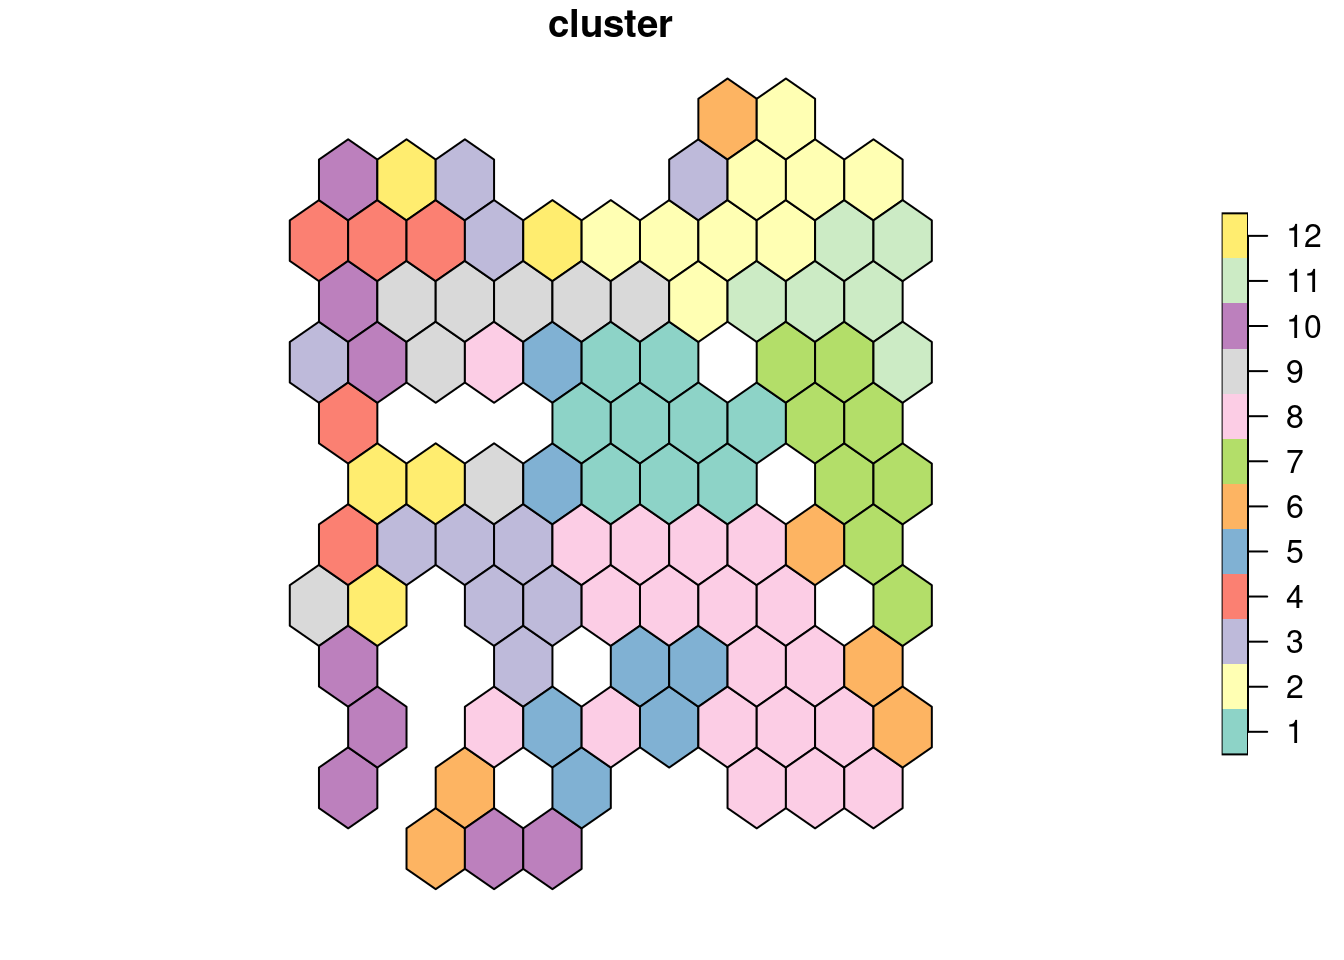
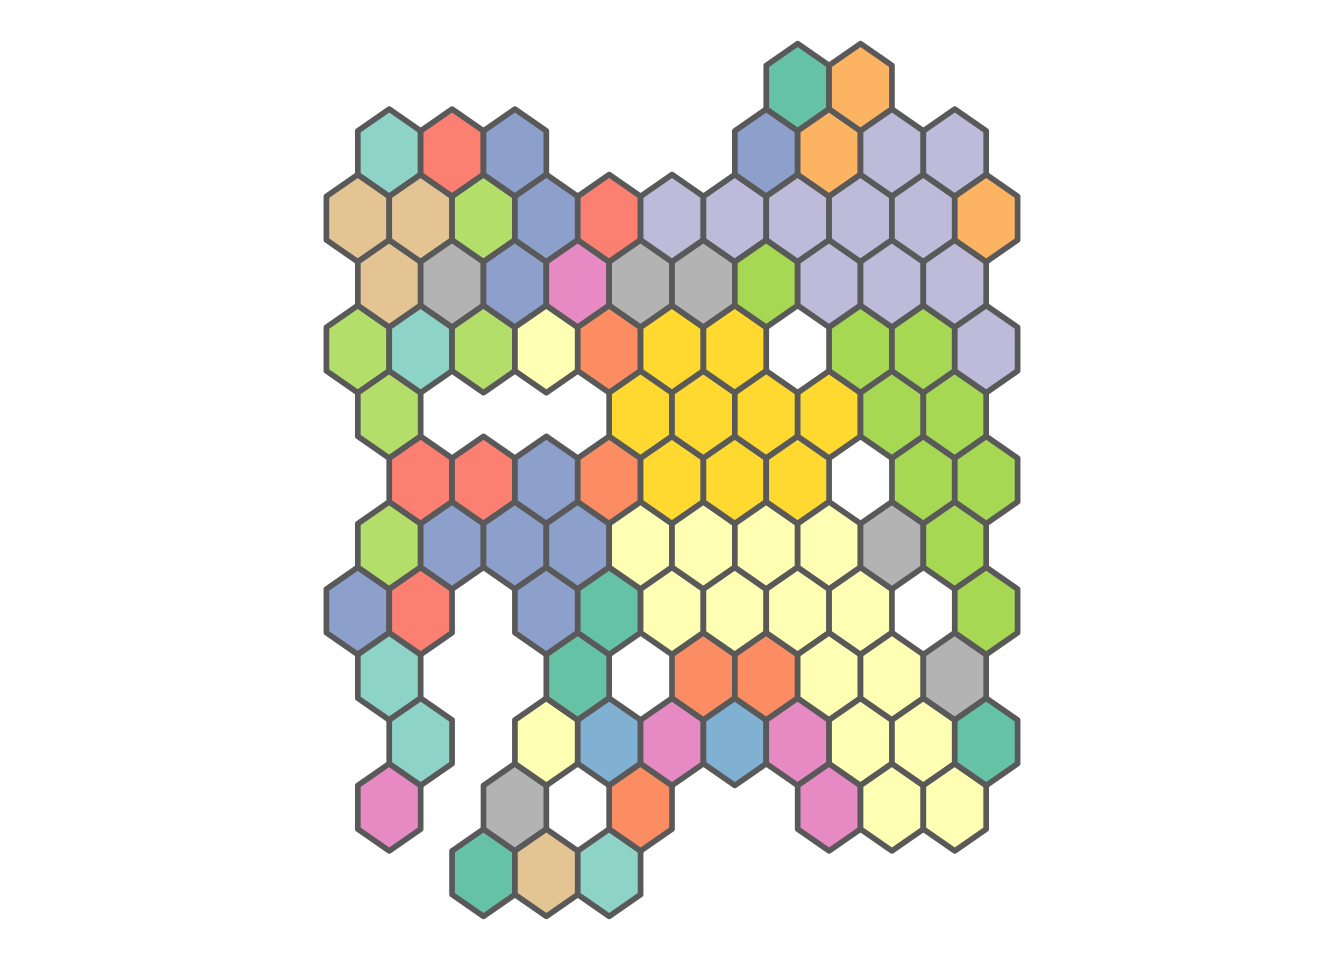
voronoi triangles, arrange ecosystems in gradient

diff --git a/ecocarta.html b/ecocarta.html
@@ -266,7 +266,7 @@ knitr::opts_chunk$set(comment=&quot;&quot;, cache=T, warning = F, message = F, f
 <div id="load-gbif-data" class="section level1">
 <h1>Load GBIF data</h1>
 <pre class="r"><code>#San Jacinto Mountains research-grade iNaturalist observations
-#POLYGON((-117 33.5,-116.5 33.5,-116.5 34,-117 34,-117 33.5))
+box &lt;- st_as_sfc(&quot;POLYGON((-117 33.5,-116.5 33.5,-116.5 34,-117 34,-117 33.5))&quot;) %&gt;% st_set_crs(&quot;WGS84&quot;)
 #GBIF.org (19 September 2024) GBIF Occurrence Download  https://doi.org/10.15468/dl.25fxq8
 dat.all &lt;- read_tsv(&quot;data/0022443-240906103802322.csv.gz&quot;)
 
@@ -277,8 +277,25 @@ dat.common &lt;- dat.all %&gt;%
   mutate(species=factor(species), species_int = as.integer(species)) %&gt;% as.data.frame()
 
 dat.points &lt;- dat.common %&gt;% st_as_sf(coords = c(&quot;decimalLongitude&quot;, &quot;decimalLatitude&quot;), crs = &quot;WGS84&quot;)
-plot(dat.points[&quot;phylum&quot;])</code></pre>
+ggplot(dat.points, aes(color=order)) + geom_sf() + theme_void() + guides(color=&quot;none&quot;) +
+    theme(panel.background = element_rect(fill=&quot;black&quot;))</code></pre>
 <p><img src="images/load_gbif-1.png" width="672" /></p>
+<pre class="r"><code>group_by_cell &lt;- function(points, grid, min_obs=0) {
+  #assign points to cells
+  dat.grid.cells &lt;- st_intersects(grid, points) 
+  grid$n_obs &lt;- lengths(dat.grid.cells) #count points in each cell
+  
+  #drop cells with few observations
+  cells.full &lt;- which(grid$n_obs &gt; min_obs)
+  grid.full &lt;- grid[cells.full,]
+  
+  #tally number of each species in each cell
+  dat.grid &lt;- t(sapply(dat.grid.cells, function(x) table(points$species[x])))
+  rownames(dat.grid) &lt;- grid$grid_id
+  dat.grid.full &lt;- dat.grid[cells.full,]
+  
+  list(data = dat.grid.full, grid = grid.full)
+}</code></pre>
 </div>
 <div id="draw-hexagonal-grid" class="section level1">
 <h1>Draw hexagonal grid</h1>
@@ -287,39 +304,78 @@ hex_dim &lt;- 10 #number of hexagons on each side
 hex.sfc &lt;- dat.points %&gt;% st_make_grid(n=c(hex_dim, hex_dim), square = F)
 hex &lt;- hex.sfc %&gt;% st_sf() %&gt;% mutate(grid_id = 1:length(lengths(hex.sfc)))
 
-#assign points to cells
-dat.hex.cells &lt;- st_intersects(hex, dat.points) 
-hex$n_obs &lt;- lengths(dat.hex.cells) #count points in each cell
-
-#drop cells with few observations
-obs_cutoff &lt;- 10
-cells.full &lt;- which(hex$n_obs&gt;obs_cutoff)
-hex.full &lt;- hex[cells.full,]
-
-plot(hex.full[&quot;n_obs&quot;])</code></pre>
+hex.obj &lt;- group_by_cell(dat.points, hex, min_obs=10)
+dat.hex &lt;- hex.obj$data
+hex.full &lt;- hex.obj$grid
+ggplot(hex.full, aes(fill=n_obs)) + geom_sf(linewidth=2) + 
+  theme_void() + scale_fill_viridis_c(option=&quot;magma&quot;, guide=&quot;none&quot;) + 
+  theme(panel.background = element_rect(fill=&quot;black&quot;))</code></pre>
 <p><img src="images/hex-1.png" width="672" /></p>
-<pre class="r"><code>#tally number of each species in each cell
-dat.hex &lt;- t(sapply(dat.hex.cells, function(x) table(dat.common[x,&quot;species&quot;])))
-rownames(dat.hex) &lt;- hex$grid_id
-dat.hex.full &lt;- dat.hex[cells.full,]</code></pre>
+</div>
+<div id="draw-voronoi-triangles" class="section level1">
+<h1>Draw Voronoi triangles</h1>
+<pre class="r"><code>#get a sample of points as seeds
+n_seeds &lt;- 144
+set.seed(9)
+dat.sample &lt;- sample_n(dat.points, n_seeds)
+tri &lt;- dat.sample %&gt;% st_geometry() %&gt;% do.call(c, .) %&gt;% st_voronoi() %&gt;% 
+  st_collection_extract() %&gt;% st_set_crs(&quot;WGS84&quot;) %&gt;% st_sf() %&gt;%
+  mutate(grid_id = 1:nrow(.)) %&gt;%
+  st_intersection(box)
+
+tri.obj &lt;- group_by_cell(dat.points, tri, min_obs=10)
+dat.tri &lt;- tri.obj$data
+tri.full &lt;- tri.obj$grid
+
+ggplot(tri.full, aes(fill=n_obs)) + geom_sf(linewidth=2) + 
+  theme_void() + scale_fill_viridis_c(option=&quot;magma&quot;, guide=&quot;none&quot;) + 
+  theme(panel.background = element_rect(fill=&quot;black&quot;))</code></pre>
+<p><img src="images/voronoi-1.png" width="672" /></p>
 </div>
 <div id="k-means-clustering" class="section level1">
 <h1>k-Means clustering</h1>
 <pre class="r"><code>#assign clusters with k-means
-n_clusters &lt;- 12
-pal &lt;- brewer.pal(n_clusters, &quot;Set3&quot;)
-hex.full$cluster &lt;- dat.hex.full %&gt;% decostand(&quot;hellinger&quot;) %&gt;% kmeans(n_clusters) %&gt;% `$`(cluster) %&gt;% factor()
-plot(hex.full[&quot;cluster&quot;], key.pos=4)</code></pre>
+n_clusters &lt;- 15
+pal &lt;- c(brewer.pal(8, &quot;Set2&quot;), brewer.pal(12, &quot;Set3&quot;))[1:n_clusters] %&gt;% set_names(1:n_clusters)
+
+set.seed(1)
+hex.km &lt;- dat.hex %&gt;% decostand(&quot;hellinger&quot;) %&gt;% kmeans(n_clusters)
+ggplot(hex.full, aes(fill=factor(hex.km$cluster))) + geom_sf(linewidth=1) + 
+  theme_void() + scale_fill_manual(values=pal, guide=&quot;none&quot;)</code></pre>
 <p><img src="images/kmeans-1.png" width="672" /></p>
+<pre class="r"><code>set.seed(2)
+tri.km &lt;-  dat.tri %&gt;% decostand(&quot;hellinger&quot;) %&gt;% kmeans(n_clusters)
+ggplot(tri.full, aes(fill=factor(tri.km$cluster))) + geom_sf(linewidth=1) + 
+  theme_void() + scale_fill_manual(values=pal, guide=&quot;none&quot;)</code></pre>
+<p><img src="images/kmeans-2.png" width="672" /></p>
+</div>
+<div id="arrange-clusters-in-gradient" class="section level1">
+<h1>Arrange clusters in gradient</h1>
+<pre class="r"><code>hex.km.nmds &lt;- metaMDS(hex.km$centers, k=1, trace=F)
+hex.full$cluster &lt;- factor(hex.km$cluster, levels=order(-t(hex.km.nmds$points)))
+ggplot(hex.full, aes(fill=as.integer(cluster))) + geom_sf(linewidth=1) + 
+  theme_void() + scale_fill_gradientn(colours = terrain.colors(n_clusters), guide = &quot;none&quot;)</code></pre>
+<p><img src="images/gradient-1.png" width="672" /></p>
+<pre class="r"><code>tri.km.nmds &lt;- metaMDS(tri.km$centers, k=1, trace=F)
+tri.full$cluster &lt;- factor(tri.km$cluster, levels=order(t(tri.km.nmds$points)))
+ggplot(tri.full, aes(fill=as.integer(cluster))) + geom_sf(linewidth=1) + 
+  theme_void() + scale_fill_gradientn(colours = terrain.colors(n_clusters), guide = &quot;none&quot;)</code></pre>
+<p><img src="images/gradient-2.png" width="672" /></p>
 </div>
 <div id="nmds-ordination" class="section level1">
 <h1>NMDS ordination</h1>
-<pre class="r"><code>nmds &lt;- metaMDS(dat.hex.full, trace=F)
-par(bg=&quot;grey40&quot;)
-plot(nmds, type=&quot;n&quot;)
-text(nmds, display=&quot;species&quot;, cex=0.6)
-text(nmds, display=&quot;sites&quot;, col=pal[hex.full$cluster])</code></pre>
+<pre class="r"><code>plot_nmds &lt;- function(data, grid) {
+  nmds &lt;- metaMDS(data, trace=F)
+  par(bg=&quot;grey40&quot;, mar=c(0,0,0,0))
+  plot(nmds, type=&quot;n&quot;, axes=F, ann=F)
+  text(nmds, display=&quot;species&quot;, cex=0.6)
+  points(nmds, display=&quot;sites&quot;, col=terrain.colors(n_clusters)[grid$cluster], pch=19)
+  par(bg=&quot;white&quot;)
+}
+plot_nmds(dat.hex, hex.full)</code></pre>
 <p><img src="images/nmds-1.png" width="672" /></p>
+<pre class="r"><code>plot_nmds(dat.tri, tri.full)</code></pre>
+<p><img src="images/nmds-2.png" width="672" /></p>
 </div>
 
 
